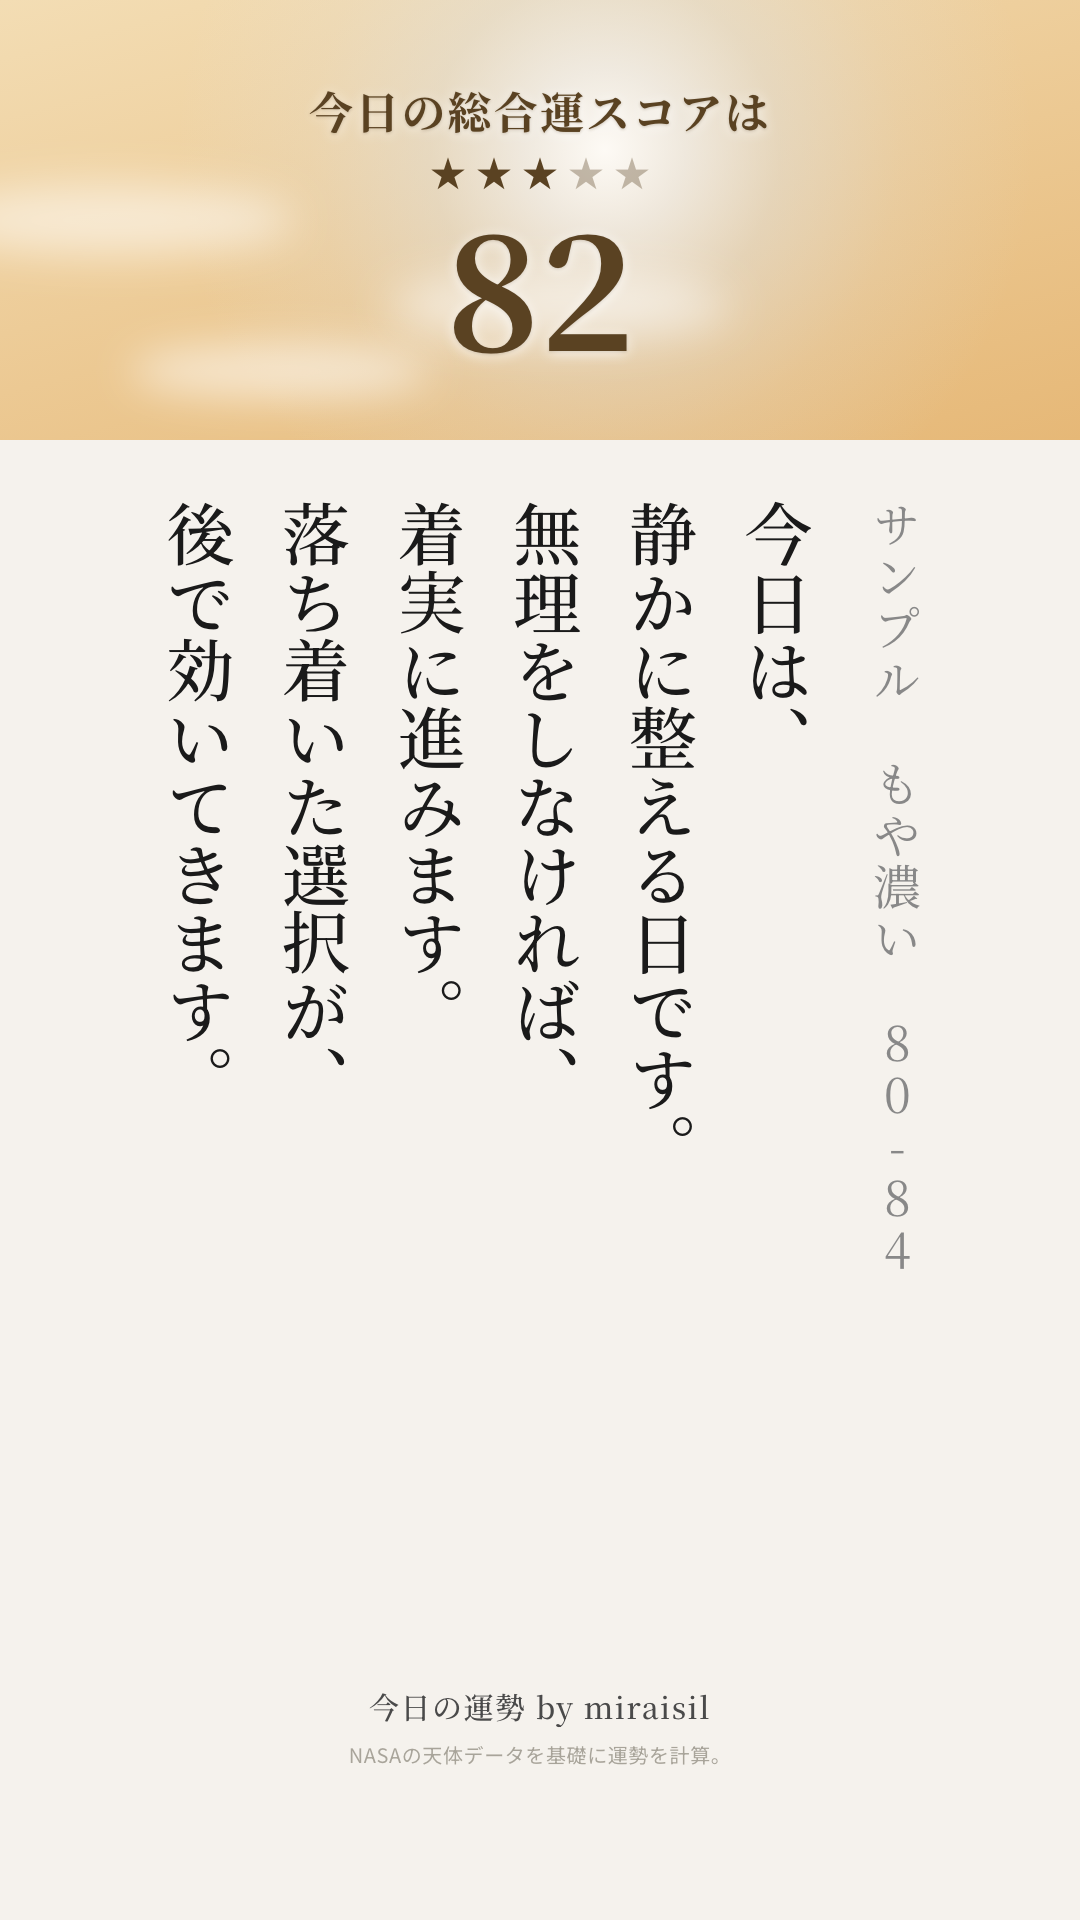
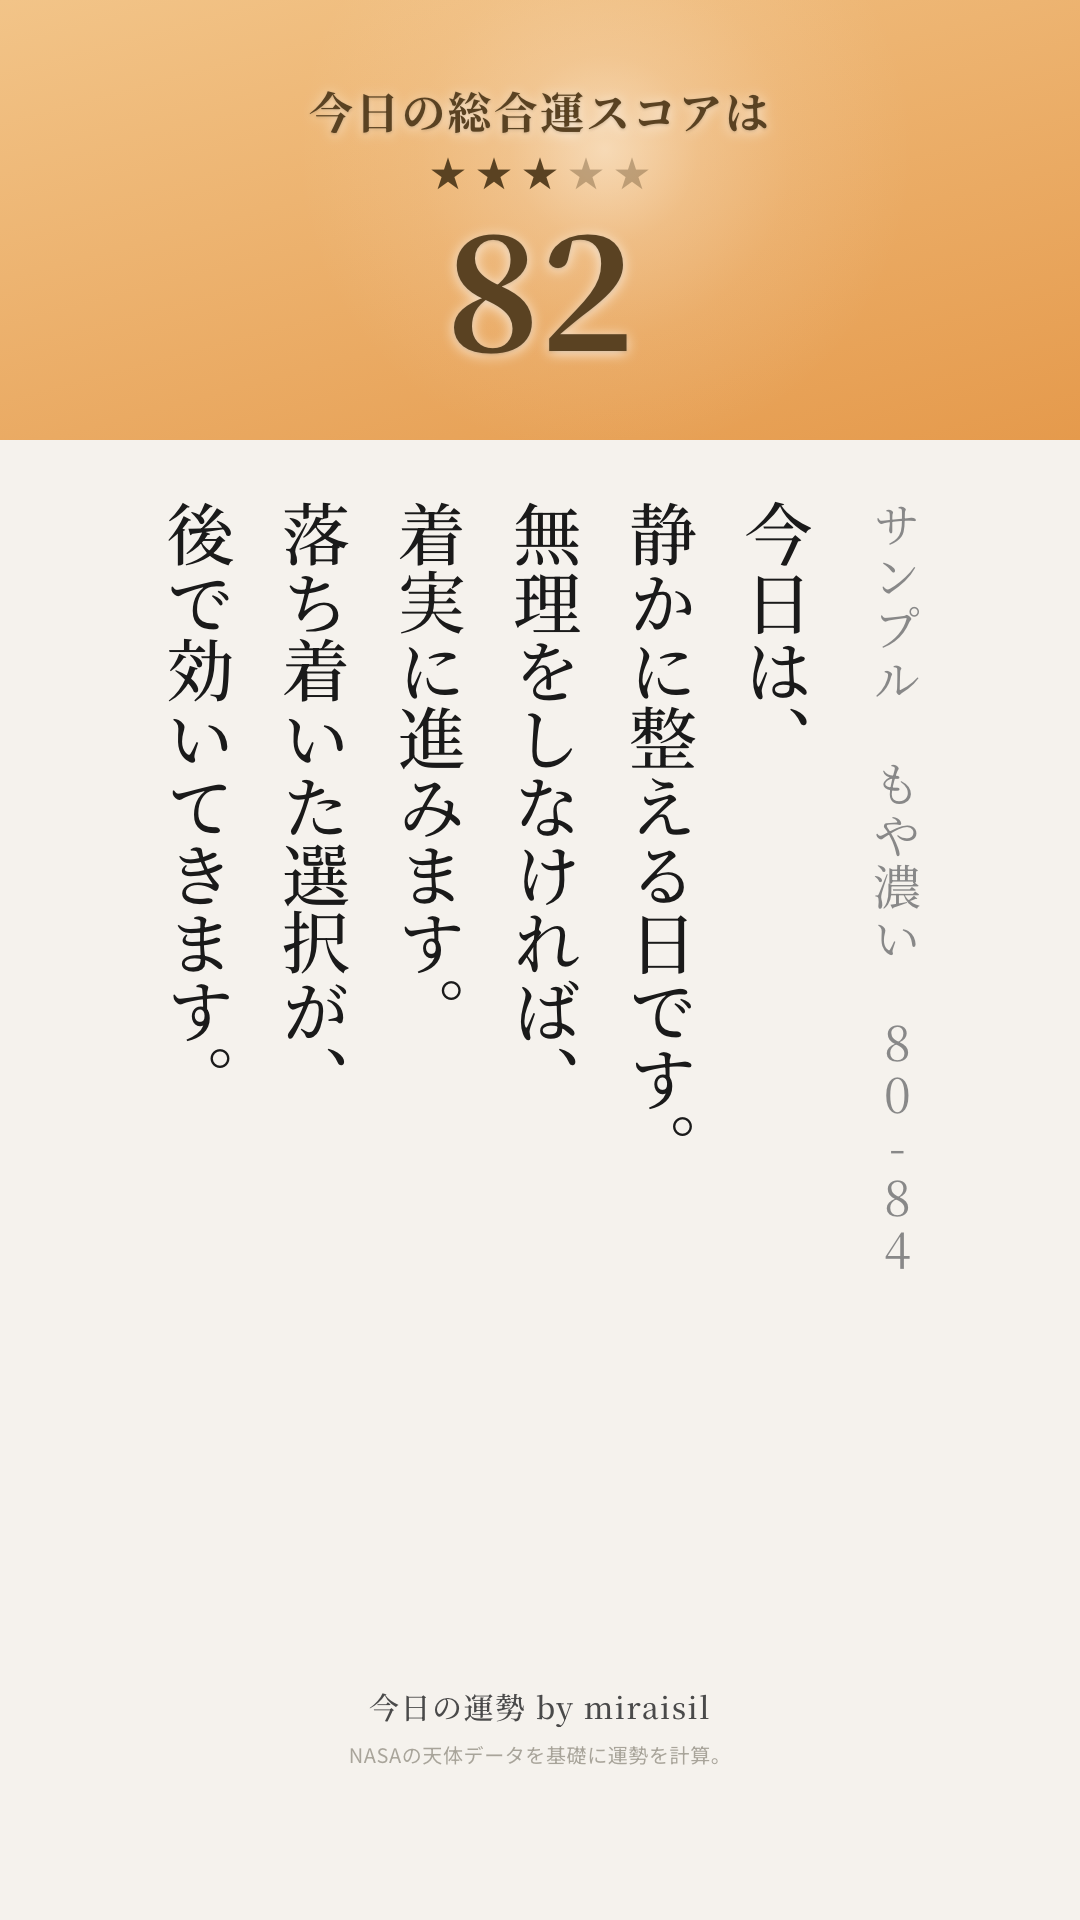
rebuild score band as wide gold->crimson spectrum, not all-orange
Widened the palette so tiers read as a "heaven's light to deep floor"
progression (white-gold top, deep crimson-but-not-black bottom) instead
of clustering as one shade of orange. Light-effect intensity now also
scales down strictly tier by tier. Bottom two tiers get pale cream text
for legibility against the much darker background.

Changed region(s): [[0.0, 0.0, 1.0, 0.25]]

diff --git a/sky-test/index.html b/sky-test/index.html
@@ -35,30 +35,33 @@
 （65-69）は廃止し、"静かな夕暮れ・残照"に置き換えた。
 </div>
 
-<h2>コントラスト拡張版（96→66の振れ幅を拡大）</h2>
+<h2>「天国の光→深い底」広域スペクトル版</h2>
 <div class="note">
-方針: 上下の振れ幅を広げて中間段階を見分けやすくする。上端(95-100)は最も明るい金のまま、
-下端(65-69 残照)を「暖色のまま深く」沈め、96→66を金→琥珀→深い赤茶へ一直線に。
-黒・灰・紫・寒色は一切混ぜず、以前ボツにした「黒い夜空」にも戻していません。<br>
-特に70-74・65-69は背景が明確に暗くなったため、文字色を従来の濃茶(#5a4222)から
-淡い生成り(#fdf0dc)に切り替え、濃い帯の上でも可読性を確保しています
-（95-100〜75-79の4段は従来通り濃茶文字のまま）。<br>
-R-B値（暖色度の簡易指標）でも96→66まで谷なく単調に増加することを確認済みです。
+方針転換: 全部オレンジに見えてしまう団子状態を解消するため、色の幅を大きく広げた。
+上端(95-100)は「天に近い白金の光」、下端(65-69)は「深紅の底」まで、
+金→橙→赤→深い夕闇の暖色ラインを一直線に通す。紫・青は一切通さず、
+底も真っ黒には落とさず"深紅どまり"にして低スコアの人への配慮を保っている。<br>
+光の効果も強度を7段階で作り分けた: 95-100は強い光芒＋グローコア＋きらめき5個、
+90-94は弱い光芒＋グロー、85-89は柔らかいグローのみ、80-84はごく弱いグローのみ、
+75-79は低い位置の夕日、70-74は沈みかけの残光（弱）、65-69は底にわずかな
+残照のみ、と上ほど強く下ほど静かに絞っている。<br>
+70-74・65-69は背景が明確に暗くなったため、文字色を淡い生成り(#fbe6c8)に
+切り替えて可読性を確保（95-100〜75-79の5段は従来通り濃い金茶 #5a4222 のまま）。<br>
+輝度は246.7→233.6→214.7→185.2→138.7→66.9→30.0と谷なく単調に沈んでいくことを確認済み。
 </div>
 <div class="row">
-  <figure><img src="band_96.png"><figcaption>96点 白熱 95-100 ★5<br>（変更なし）</figcaption></figure>
-  <figure><img src="band_92.png"><figcaption>92点 好天 90-94 ★4<br>#fef4de→#f8d59e</figcaption></figure>
-  <figure><img src="band_85.png"><figcaption>85点 うすもや 85-89 ★3<br>#fbecd2→#f0cd88</figcaption></figure>
-  <figure><img src="band_82.png"><figcaption>82点 もや濃い 80-84 ★3<br>#f3ddb4→#e6b877</figcaption></figure>
-  <figure><img src="band_77.png"><figcaption>77点 ゴールデンアワー 75-79 ★2<br>#ecca92→#d99f63</figcaption></figure>
-  <figure><img src="band_72.png"><figcaption>72点 ゴールデンアワー・静か 70-74 ★2<br>#dcab6e→#c2833f（一段深く／文字は生成りに）</figcaption></figure>
-  <figure><img src="band_66.png"><figcaption>66点 残照 65-69 ★1<br>#c2884e→#9c5f2a（深い赤茶／文字は生成りに）</figcaption></figure>
+  <figure><img src="band_96.png"><figcaption>96点 白熱 95-100 ★5<br>#ffffff→#ffefc0</figcaption></figure>
+  <figure><img src="band_92.png"><figcaption>92点 好天 90-94 ★4<br>#fdf1da→#ffdf9e</figcaption></figure>
+  <figure><img src="band_85.png"><figcaption>85点 うすもや 85-89 ★3<br>#fbe3bf→#f4c078</figcaption></figure>
+  <figure><img src="band_82.png"><figcaption>82点 もや濃い 80-84 ★3<br>#f2c488→#e59a4c</figcaption></figure>
+  <figure><img src="band_77.png"><figcaption>77点 夕焼け 75-79 ★2<br>#dd8f47→#bd6329</figcaption></figure>
+  <figure><img src="band_72.png"><figcaption>72点 深い夕闇 70-74 ★2<br>#8f4020→#5a2410（文字は生成りに）</figcaption></figure>
+  <figure><img src="band_66.png"><figcaption>66点 深紅の底 65-69 ★1<br>#4a1810→#2a0e0a（文字は生成りに）</figcaption></figure>
 </div>
 <div class="note">
-7段階を横に並べた状態で、96→66の振れ幅が広がり、隣どうし（特に85/82/77/72）が
-前より見分けやすくなっているか、かつ どの段も暖色で、くすみ・黒・紫が無いかを
-確認してください。背景グラデーションはすべて暖色（オレンジ〜ゴールド〜赤茶系）で
-統一しています。
+7段階を横に並べた状態で、上端の光と下端の深紅の底まで金→橙→赤→深闇で地続きに
+繋がっているか、中間（85/82/77）が団子にならず見分けられるか、紫/青/真っ黒が
+無いかを確認してください。
 </div>
 </body>
 </html>
